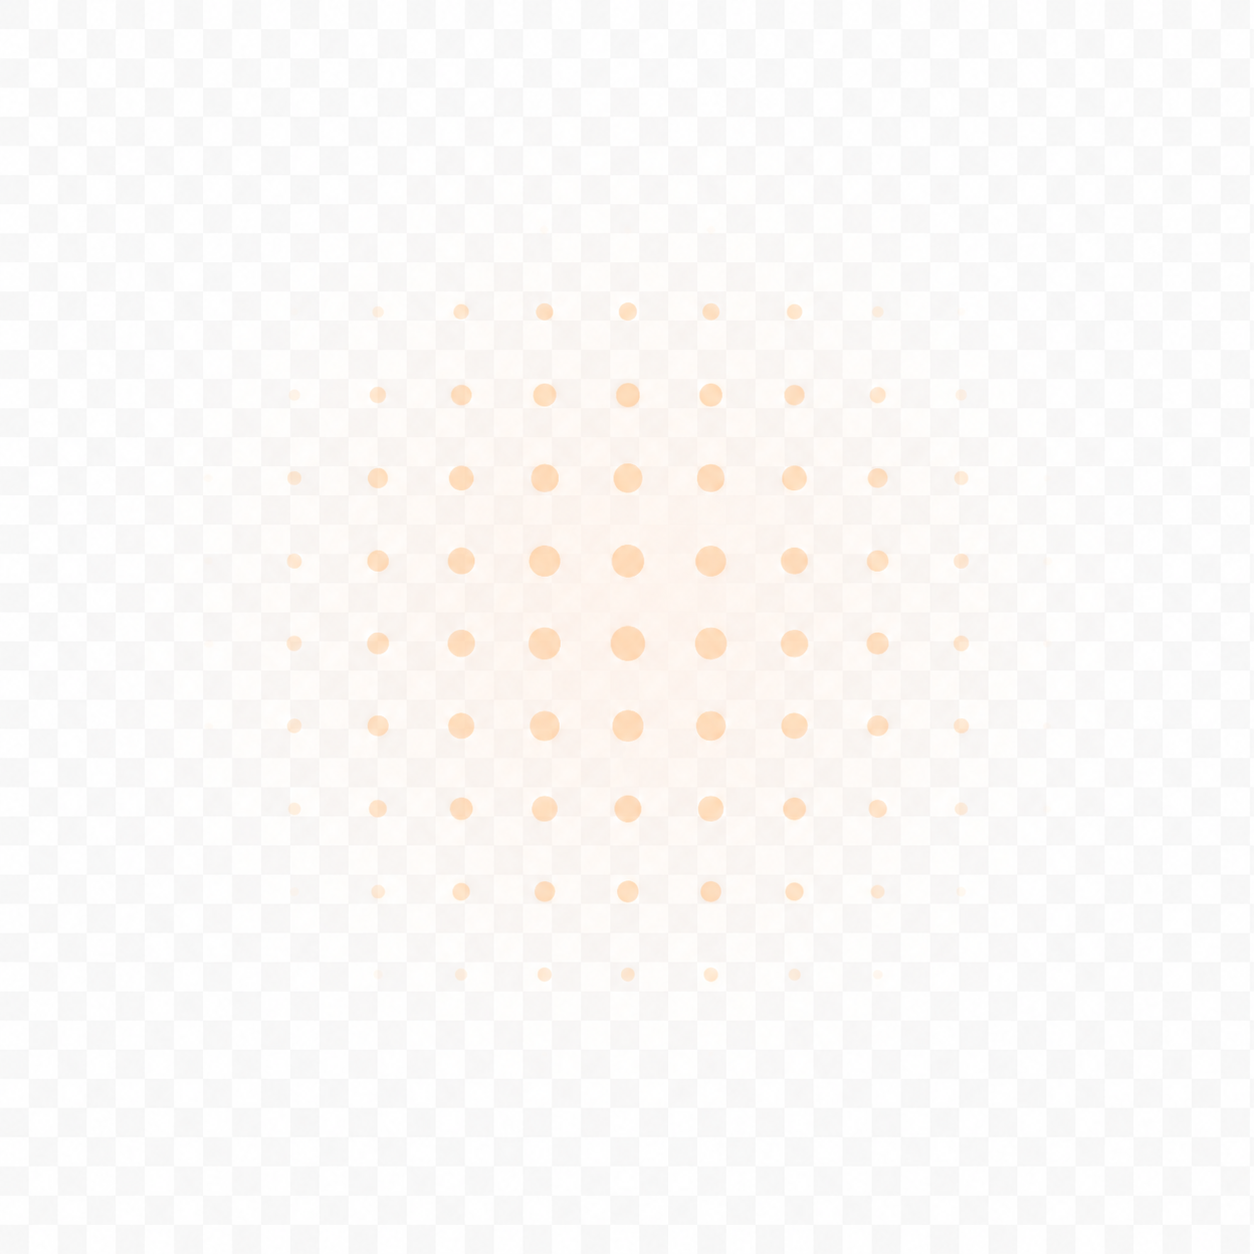
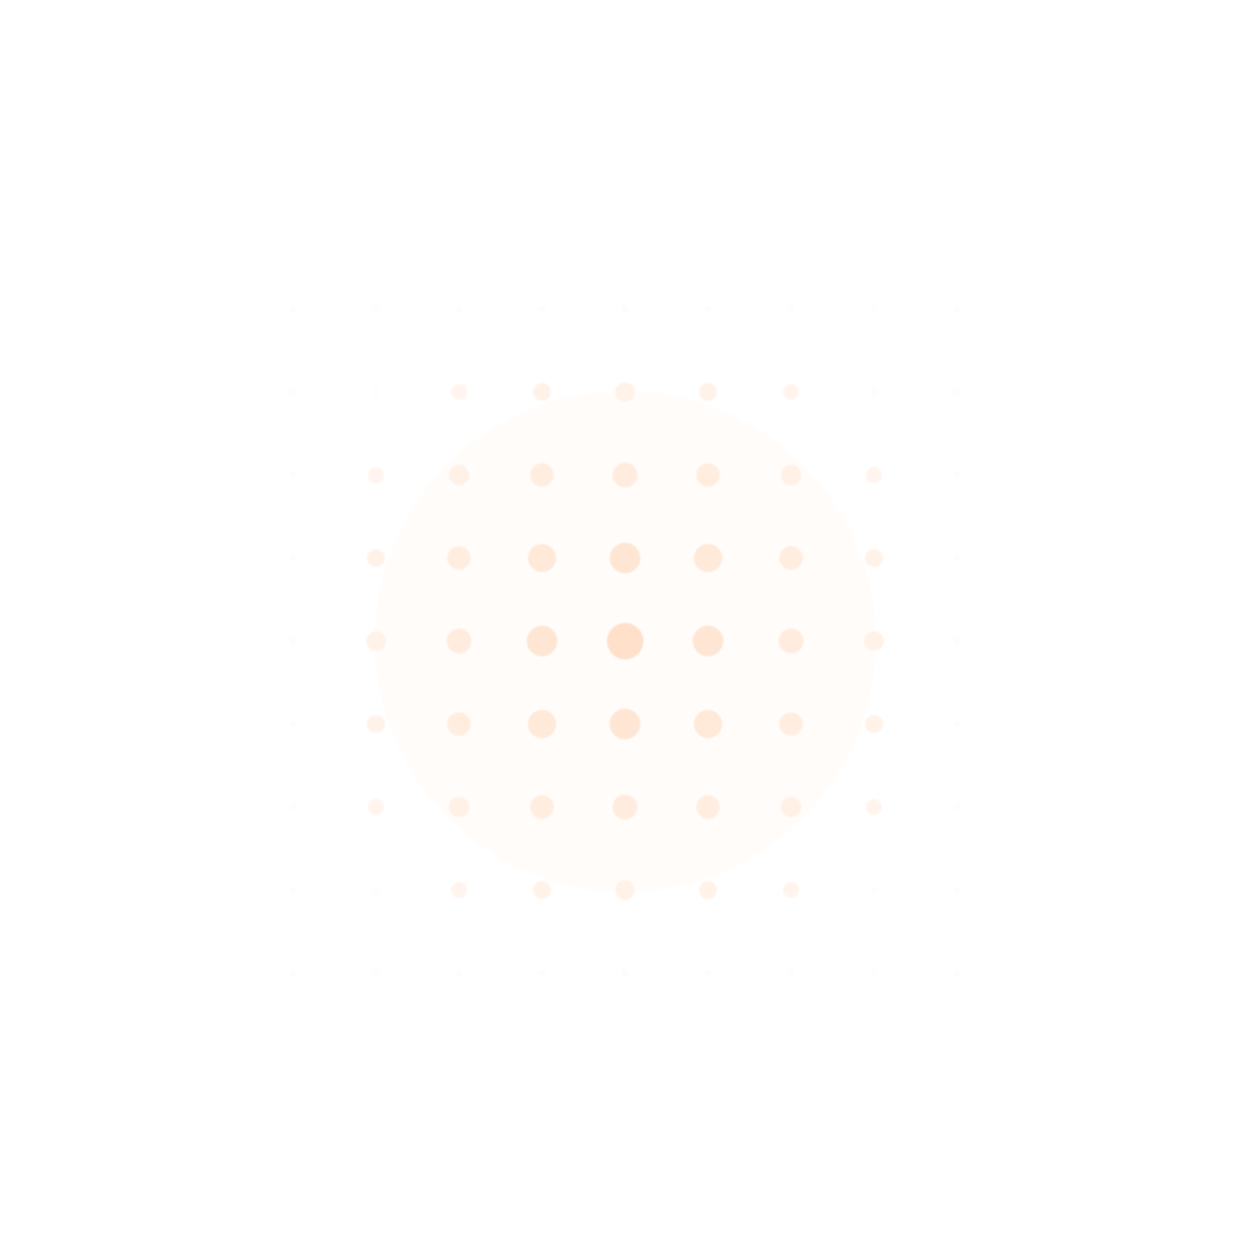
style:

diff --git a/frontend/src/views/user/ReferralCommission.vue b/frontend/src/views/user/ReferralCommission.vue
@@ -283,7 +283,7 @@ const headerMetricCards = computed(() => [
     icon: withdrawIcon,
     cardClass: 'bg-[linear-gradient(90deg,#fdefe4_0%,#feeada_100%)]',
     patternImage: itemBg1,
-    patternClass: 'right-[50px] top-1/2 h-[120px] w-[120px] -translate-y-1/2 object-contain'
+    patternClass: 'right-[22px] top-1/2 h-[120px] w-[120px] -translate-y-1/2 object-contain'
   },
   {
     key: 'commission',
@@ -292,7 +292,7 @@ const headerMetricCards = computed(() => [
     icon: commissionIcon,
     cardClass: 'bg-[linear-gradient(90deg,#fdf2dd_0%,#fee2bc_100%)]',
     patternImage: itemBg2,
-    patternClass: 'right-[50px] top-1/2 h-[120px] w-[120px] -translate-y-1/2 object-contain'
+    patternClass: 'right-[26px] top-1/2 h-[120px] w-[120px] -translate-y-1/2 object-contain'
   },
   {
     key: 'merchant',
@@ -301,7 +301,7 @@ const headerMetricCards = computed(() => [
     icon: merchantIcon,
     cardClass: 'bg-[linear-gradient(90deg,#fde8e2_0%,#fdd7c9_100%)]',
     patternImage: itemBg3,
-    patternClass: 'right-[50px] top-1/2 h-[120px] w-[120px] -translate-y-1/2 object-contain'
+    patternClass: 'right-[30px] top-1/2 h-[120px] w-[120px] -translate-y-1/2 object-contain'
   }
 ])
 const buildReferralShareLink = (sharePath, fallbackURL = '') => {
